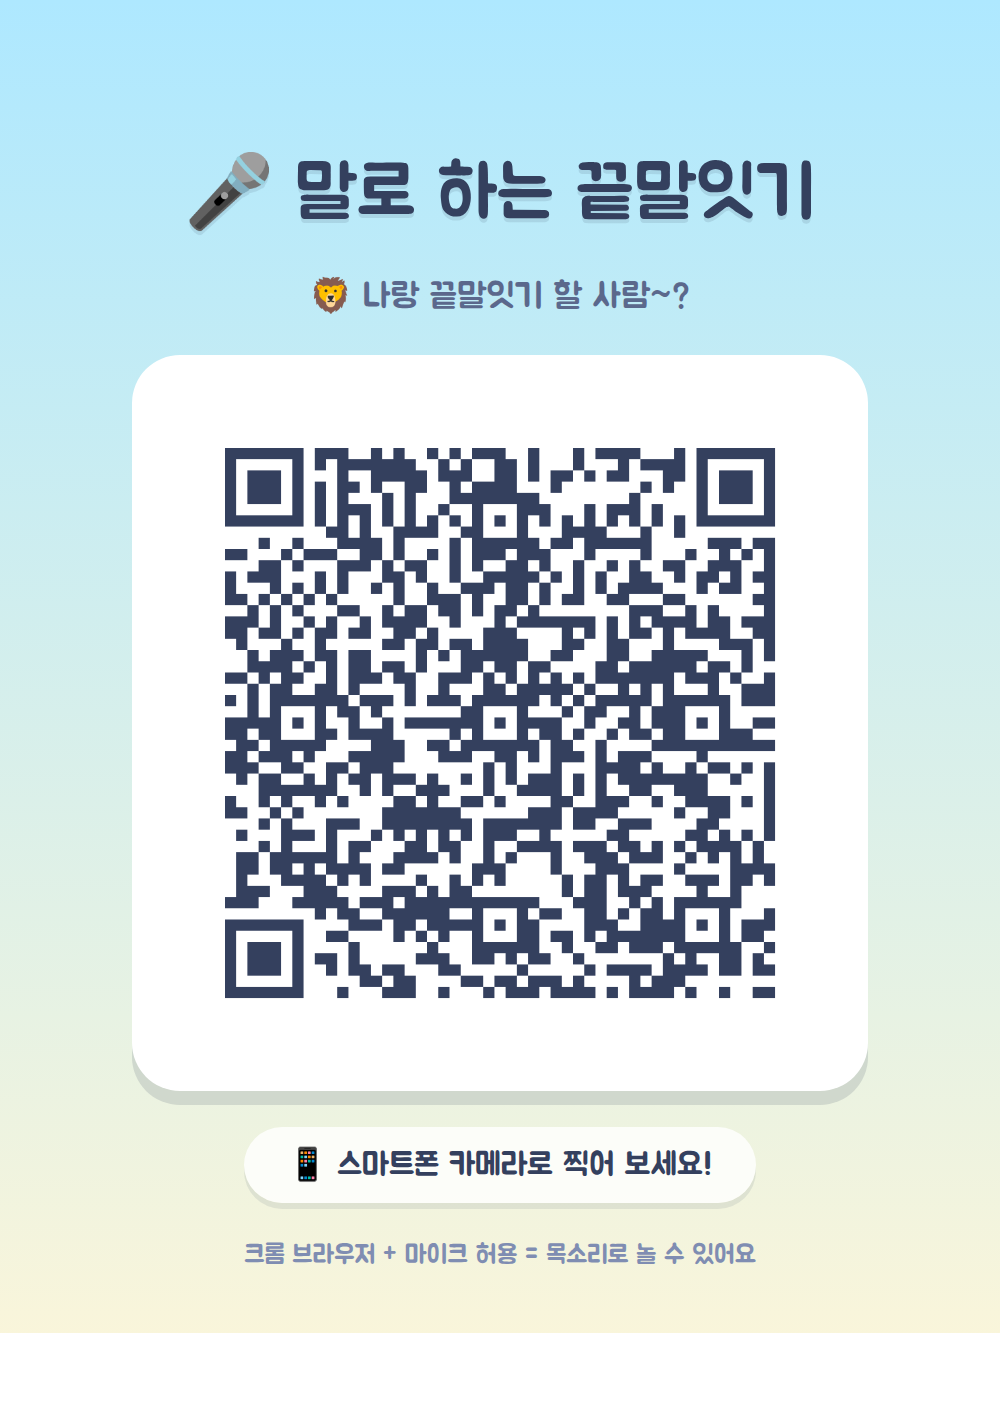
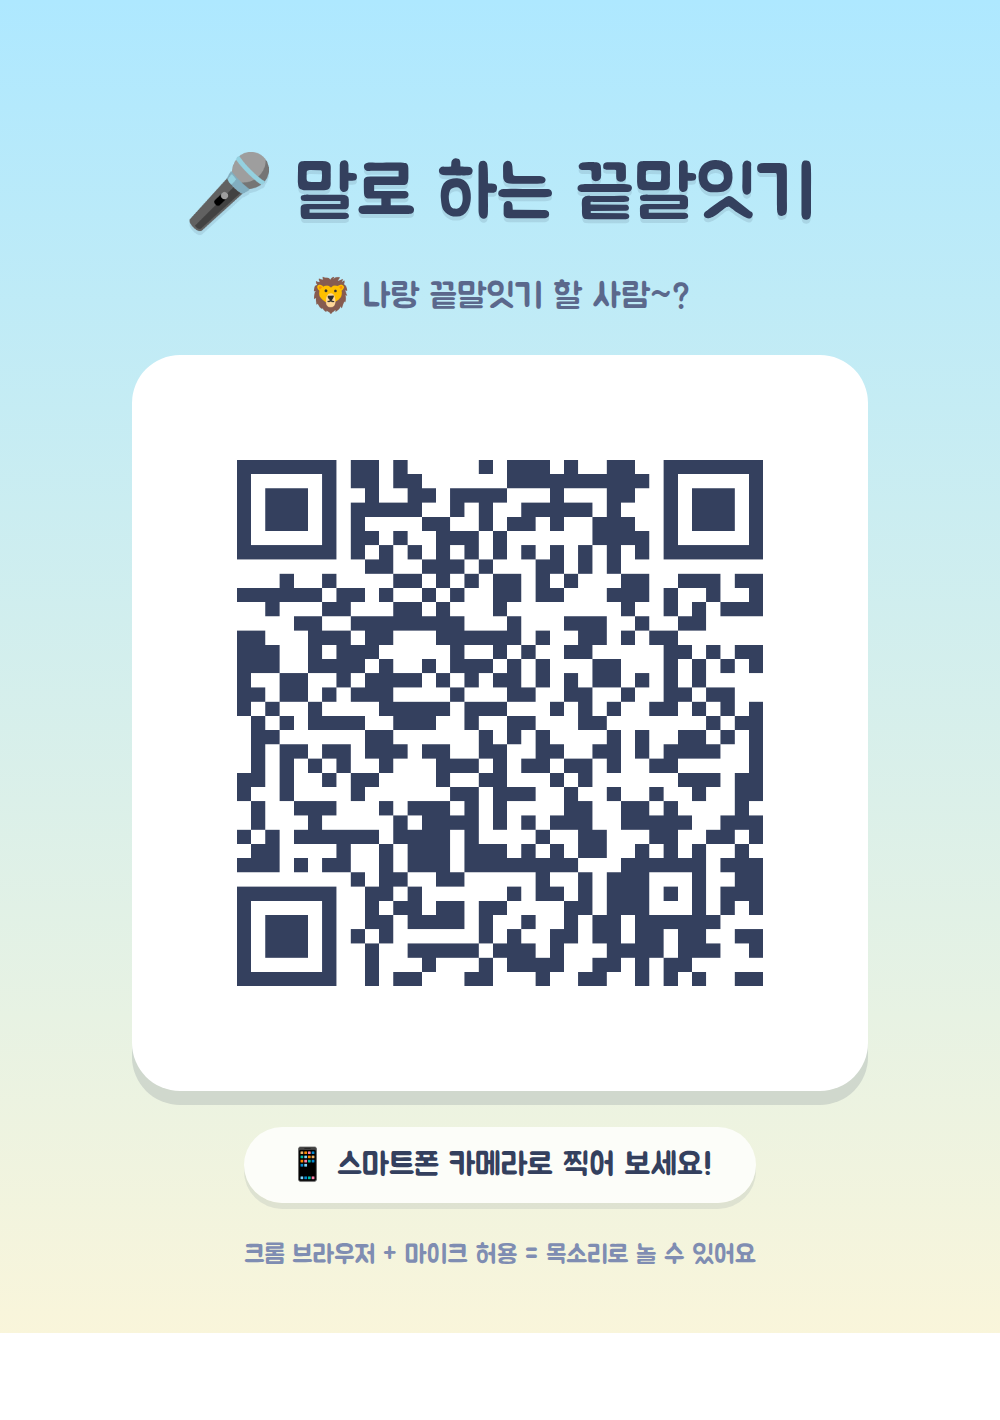
GitHub Pages 배포 워크플로 추가, QR을 github.io 주소로 변경
Claude-Session: https://claude.ai/code/session_01D53rr2SQr1CH5oCmtjfie4

Changed region(s): [[0.217, 0.3099, 0.775, 0.7127]]

diff --git a/README.md b/README.md
@@ -20,7 +20,7 @@
 
 <img src="qr-card.png" alt="끝말잇기 QR 카드" width="360" />
 
-- QR은 배포된 게임 페이지로 연결됩니다: https://claude.ai/code/artifact/be15d134-32e3-4589-9aa7-618a59584ca8
+- QR은 배포된 게임 페이지로 연결됩니다: https://boyoung83.github.io/word_relay/
 - 프린트해서 냉장고에 붙여 두기 좋은 `qr-card.png`, 순수 QR만 있는 `qr-code.png` 두 가지가 있어요.
 - 음성 인식은 안드로이드 **크롬**에서 잘 동작합니다. (iOS 사파리는 키보드 입력 모드로 자동 전환)
 
